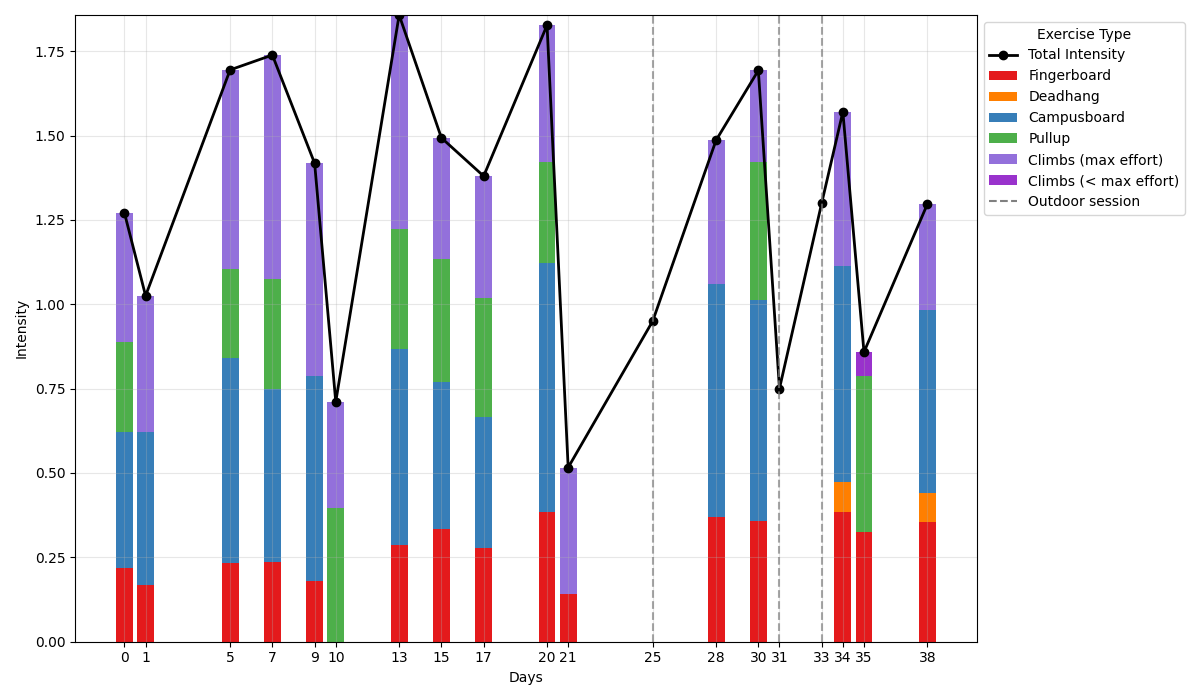
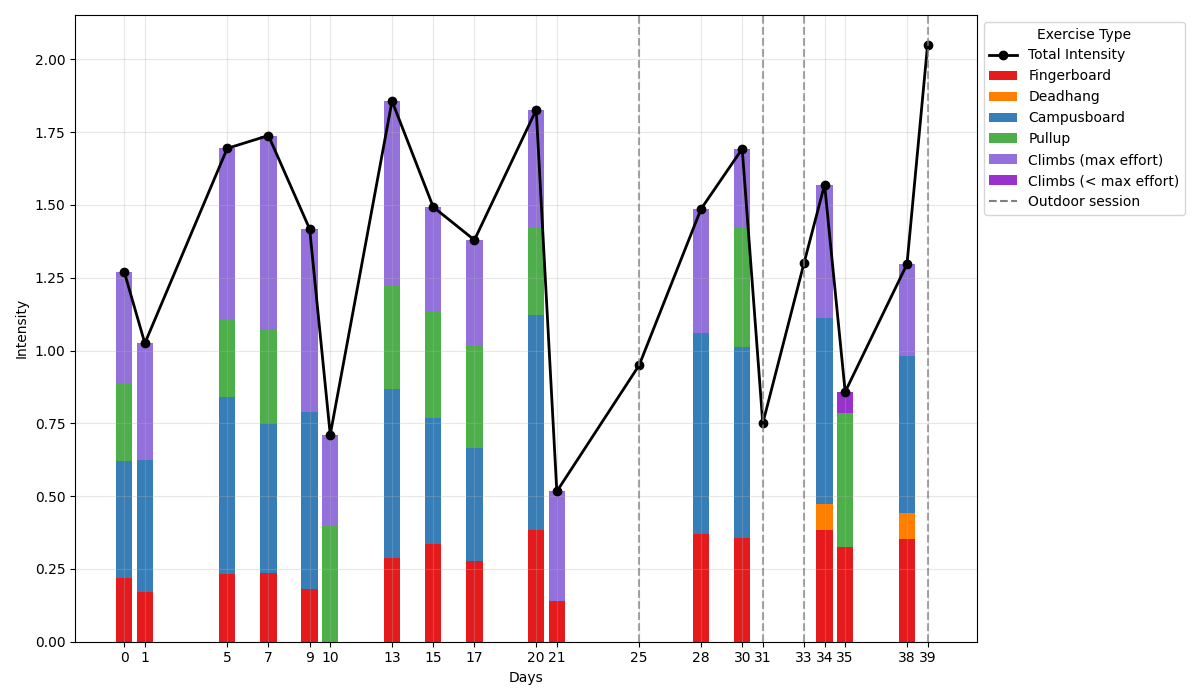
add grades

diff --git a/src/crimpy/intensity.py b/src/crimpy/intensity.py
@@ -243,6 +243,8 @@ class WorkoutIntensityCalculator:
         """
         # Base scores for lead attempts
         GRADE_SCORES = {
+            "5b": 0.15,
+            "5b+": 0.2,
             "5c":  0.25,
             "5c+": 0.30,
             "6a":  0.40,
@@ -269,7 +271,7 @@ class WorkoutIntensityCalculator:
                 base = GRADE_SCORES.get(grade)
                 if base is None:
                     # unknown grade → skip
-                    print("Unkown grade, skipping")
+                    print("Unkown grade : ", grade, ". Skipping.")
                     continue
 
                 # subtract for toprope
